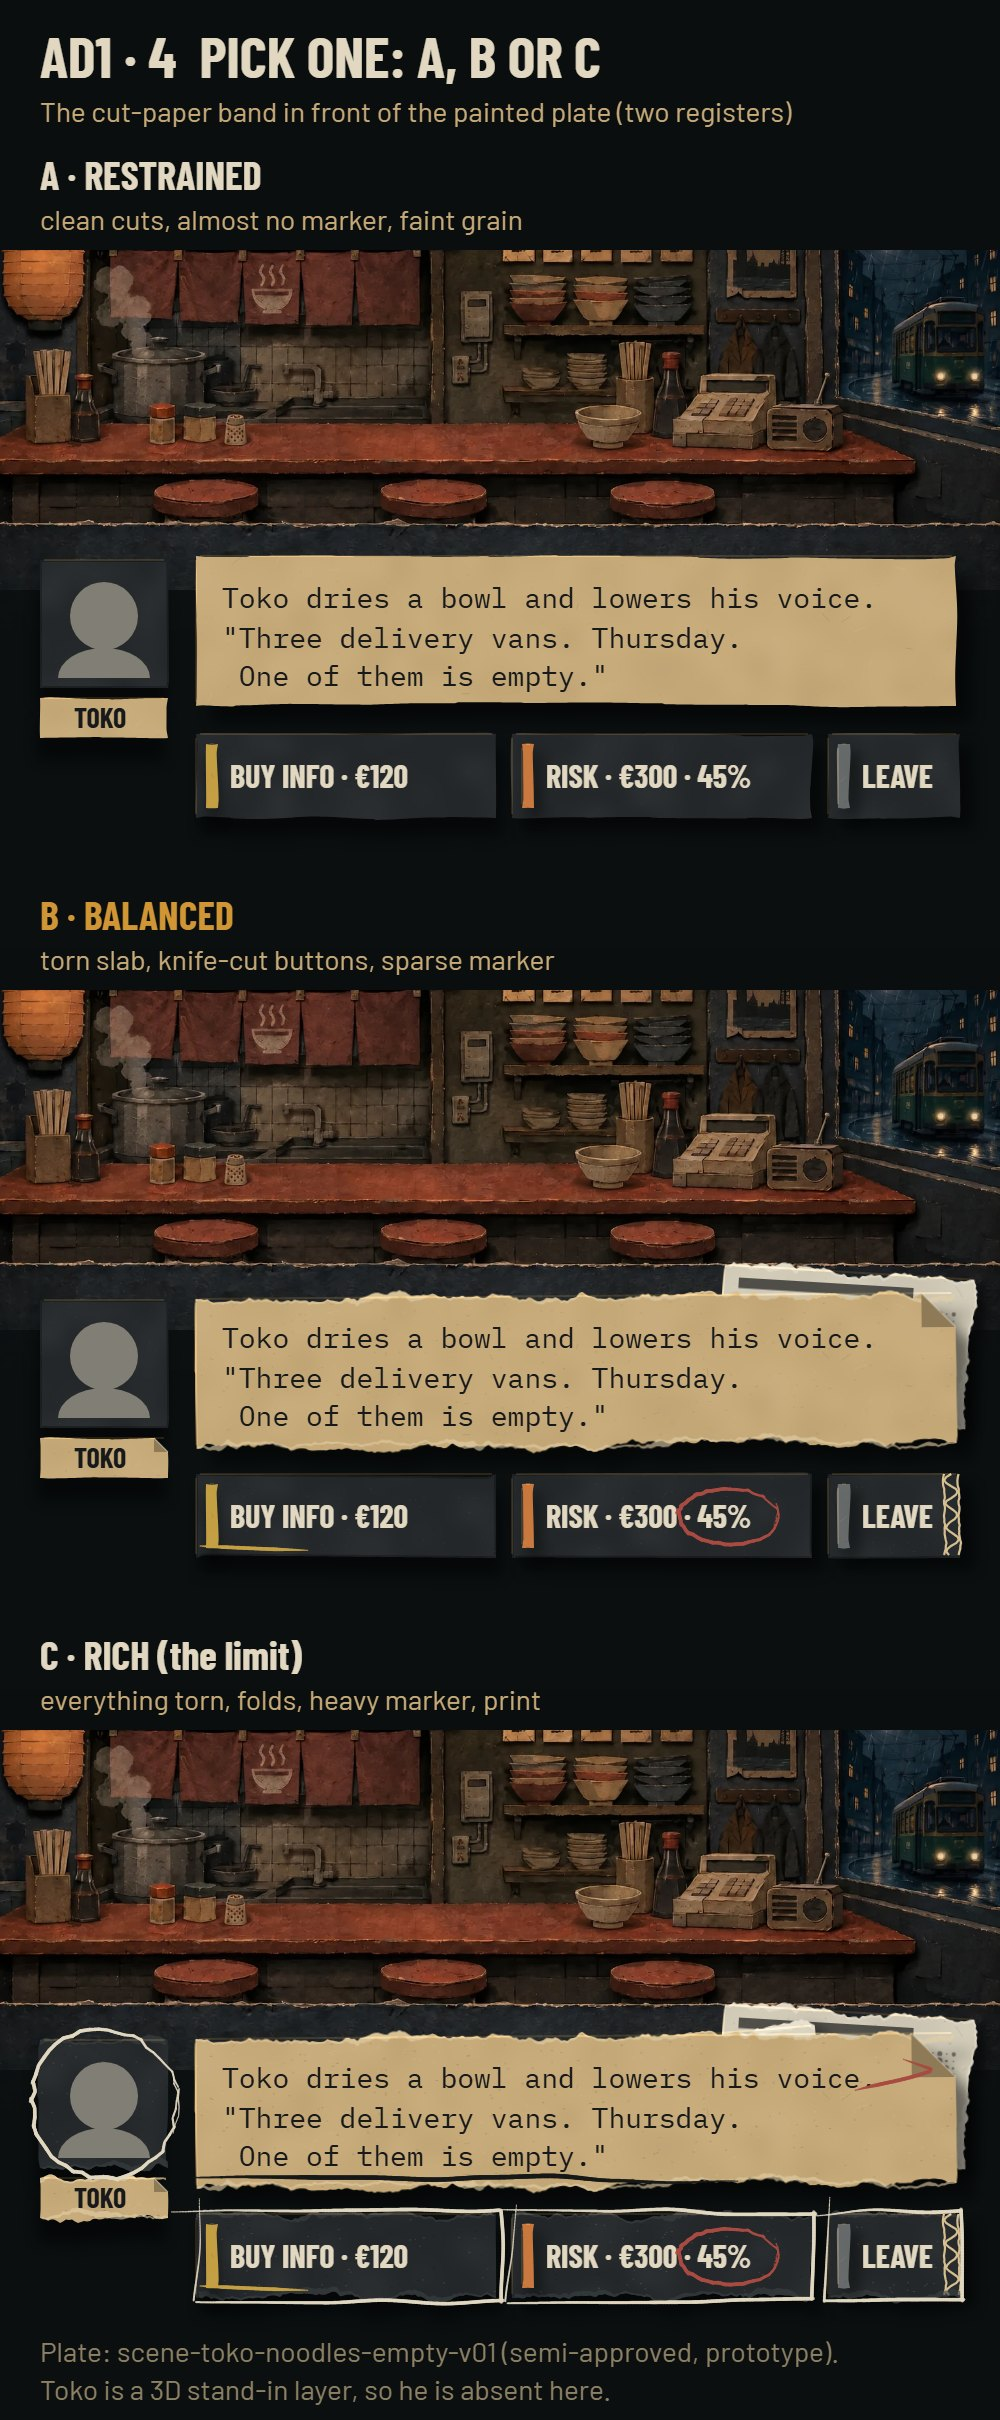
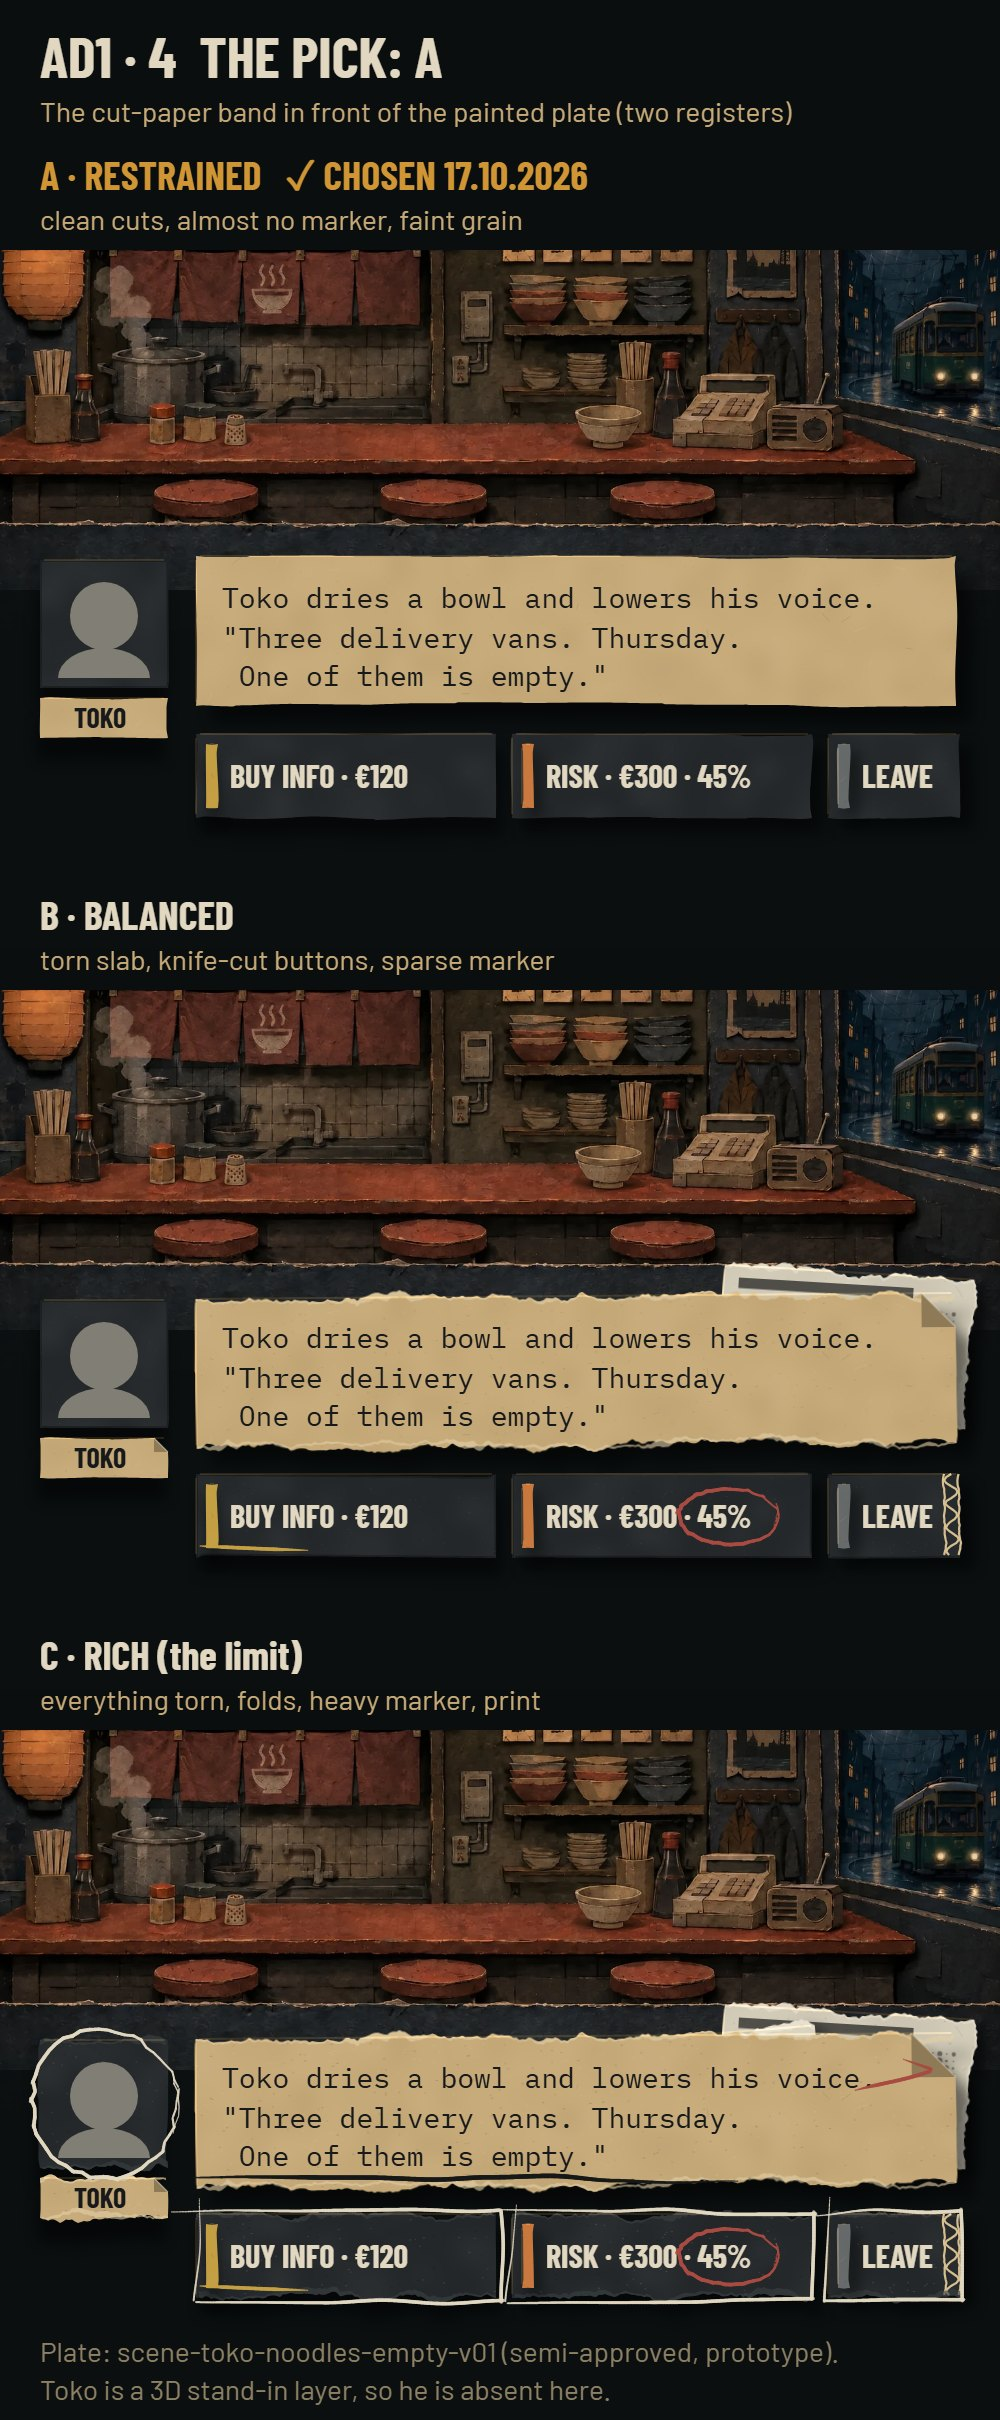
Art: AD1 decided — treatment A, restrained, is the house treatment
Owner, 2026-10-17, from AD1 board 4: "A, restrained". Clean scissor and knife
cuts, almost no marker, faint grain. The presets move into paper-kit.js as
TREATMENTS with HOUSE = A; B and C stay only as the record of what was shown.
Board 4 marks A as chosen; the README opens with the decision.

diff --git a/art-src/paper-kit/ad1-boards.html b/art-src/paper-kit/ad1-boards.html
@@ -23,7 +23,7 @@
 </style>
 <body>
 <script type="module">
-import { PAL, PAPER, LIGHT, card, place, pool, marker, markerBox, markerRing, shade } from './paper-kit.js';
+import { PAL, PAPER, LIGHT, card, place, pool, marker, markerBox, markerRing, shade, TREATMENTS } from './paper-kit.js';
 
 const W = 1000;
 const mk = (h) => { const c = document.createElement('canvas'); c.width = W; c.height = h; document.body.appendChild(c); return [c, c.getContext('2d')]; };
@@ -98,11 +98,7 @@ function board3() {
 }
 
 // ── board 4: the pick — the conversation band in three treatments ─────────
-const T = {
-  A: { name: 'A · RESTRAINED', sub: 'clean cuts, almost no marker, faint grain', edge: 'scissor', slab: { top: 'scissor', bottom: 'scissor' }, tooth: 0.03, rims: false, fold: 0, mark: 0, extras: 0 },
-  B: { name: 'B · BALANCED', sub: 'torn slab, knife-cut buttons, sparse marker', edge: 'knife', slab: { top: 'torn', bottom: 'torn' }, tooth: null, rims: true, fold: 34, mark: 1, extras: 1 },
-  C: { name: 'C · RICH (the limit)', sub: 'everything torn, folds, heavy marker, print', edge: 'torn', slab: { top: 'torn', bottom: 'torn' }, tooth: 0.13, rims: true, fold: 44, mark: 2, extras: 2 },
-};
+const T = TREATMENTS;
 function panel(g, y0, t, plate) {
   const PH = 380;
   // the painted register: the empty bar, cropped through the counter
@@ -142,10 +138,10 @@ function panel(g, y0, t, plate) {
 }
 function board4(plate) {
   const PANEL = 700, H = 200 + 3 * (PANEL + 40), [c, g] = mk(H); ground(g, H, '#0b0e0f');
-  title(g, 'AD1 · 4  PICK ONE: A, B OR C', 'The cut-paper band in front of the painted plate (two registers)');
+  title(g, 'AD1 · 4  THE PICK: A', 'The cut-paper band in front of the painted plate (two registers)');
   ['A', 'B', 'C'].forEach((k, i) => {
     const y = 150 + i * (PANEL + 40), t = T[k];
-    label(g, t.name, 40, y + 40, k === 'B' ? PAL.ochre : PAL.offwhite, 40); note(g, t.sub, 40, y + 80);
+    label(g, k === 'A' ? t.name + '   ✓ CHOSEN 17.10.2026' : t.name, 40, y + 40, k === 'A' ? PAL.ochre : PAL.offwhite, 40); note(g, t.sub, 40, y + 80);
     panel(g, y + 100, t, plate);
   });
   note(g, 'Plate: scene-toko-noodles-empty-v01 (semi-approved, prototype).', 40, H - 58, '#8d8165'); note(g, 'Toko is a 3D stand-in layer, so he is absent here.', 40, H - 20, '#8d8165');

diff --git a/art-src/paper-kit/paper-kit.js b/art-src/paper-kit/paper-kit.js
@@ -203,3 +203,14 @@ export function markerRing(g, cx, cy, rx, ry, o = {}) {
   for (let a = -0.4; a < Math.PI * 2 + 0.5; a += 0.12) { const k = 1 + (r() - 0.5) * 0.06; pts.push([cx + Math.cos(a) * rx * k, cy + Math.sin(a) * ry * k]); }
   marker(g, pts, o);
 }
+
+// ── treatments (AD1 board 4) ───────────────────────────────────────────────
+// Owner, 2026-10-17, picking from AD1 board 4: "A, restrained". A is the house
+// treatment for the non-battle cut-paper register. B and C are kept as the
+// record of what was shown, not as options to use.
+export const TREATMENTS = {
+  A: { name: 'A · RESTRAINED', sub: 'clean cuts, almost no marker, faint grain', edge: 'scissor', slab: { top: 'scissor', bottom: 'scissor' }, tooth: 0.03, rims: false, fold: 0, mark: 0, extras: 0 },
+  B: { name: 'B · BALANCED', sub: 'torn slab, knife-cut buttons, sparse marker', edge: 'knife', slab: { top: 'torn', bottom: 'torn' }, tooth: null, rims: true, fold: 34, mark: 1, extras: 1 },
+  C: { name: 'C · RICH (the limit)', sub: 'everything torn, folds, heavy marker, print', edge: 'torn', slab: { top: 'torn', bottom: 'torn' }, tooth: 0.13, rims: true, fold: 44, mark: 2, extras: 2 },
+};
+export const HOUSE = TREATMENTS.A;
